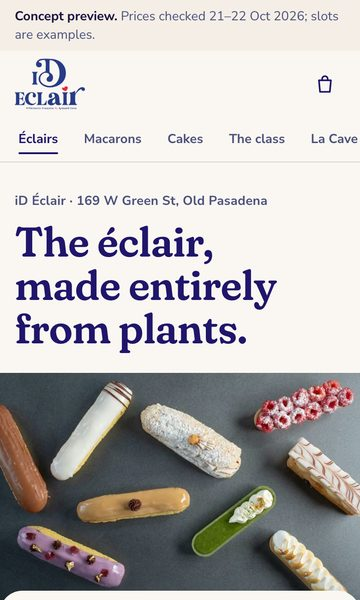
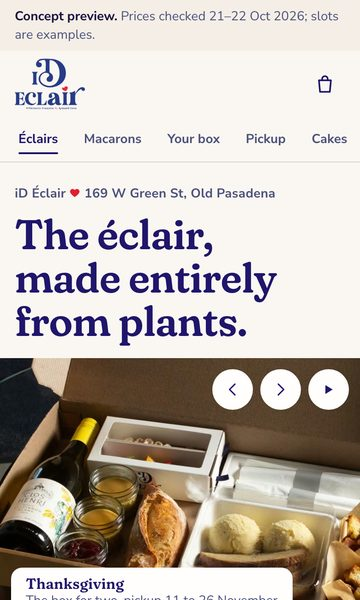
demo eng-0002: Lumiere hero becomes the seasonal stage carousel (crossfade, progress line, pause, swipe, reduced-motion static)

diff --git a/demo/eng-0002/options/12-lumiere/index.html b/demo/eng-0002/options/12-lumiere/index.html
@@ -17,8 +17,28 @@
 <link rel="icon" href="../../img/favicon.svg" type="image/svg+xml">
 <link rel="preload" as="font" type="font/woff2" crossorigin href="../../assets/fonts/fraunces-roman-latin.woff2">
 <link rel="preload" as="font" type="font/woff2" crossorigin href="../../assets/fonts/nunito-sans-roman-latin.woff2">
-<link rel="preload" as="image" type="image/avif" media="(max-width:899px)" imagesrcset="../../img/shop/eclairs-slate-480.avif 480w, ../../img/shop/eclairs-slate-800.avif 800w, ../../img/shop/eclairs-slate-1200.avif 1200w" imagesizes="100vw" fetchpriority="high">
-<link rel="preload" as="image" type="image/avif" media="(min-width:900px)" imagesrcset="../../img/shop/eclairs-slate-800.avif 800w, ../../img/shop/eclairs-slate-1200.avif 1200w, ../../img/shop/eclairs-slate-1600.avif 1600w" imagesizes="75vw" fetchpriority="high">
+<!-- season:start -->
+<script>/* Season, chosen before first paint. Loaded synchronously in <head> so the look is set before first paint (about 1 KB,
+   no fetch). ?season=<id> previews a look; otherwise the window that holds today's Pasadena date, shortest window
+   first; otherwise maison. The window table between the markers is written from assets/seasons.json by
+   tools/regen_static.py (run it or --check before every publish). In the Shopify build the same table is a
+   metaobject read in Liquid and one theme setting (Season: Auto or a named look). */
+(function () {
+  var T = /*SEASONS:START*/{"ids":["maison","toussaint","thanksgiving","noel","valentine","paques"],"windows":[["toussaint","2026-10-17","2026-11-02"],["thanksgiving","2026-11-03","2026-11-26"],["noel","2026-11-27","2026-12-26"],["valentine","2027-02-01","2027-02-14"],["paques","2027-03-14","2027-03-28"],["toussaint","2027-10-16","2027-11-02"],["thanksgiving","2027-11-02","2027-11-25"],["noel","2027-11-26","2027-12-26"],["valentine","2028-02-01","2028-02-14"],["paques","2028-04-02","2028-04-16"]]}/*SEASONS:END*/, ids = T.ids || ['maison'], W = T.windows || [];
+  var q = /[?&]season=([a-z-]+)/.exec(location.search), want = q && q[1], pick = 'maison', preview = false;
+  if (want && ids.indexOf(want) >= 0) { pick = want; preview = true; }
+  else {
+    var o = {}, today;
+    try { new Intl.DateTimeFormat('en-CA', { timeZone: 'America/Los_Angeles', year: 'numeric', month: '2-digit', day: '2-digit' }).formatToParts(new Date()).forEach(function (p) { o[p.type] = p.value; }); today = o.year + '-' + o.month + '-' + o.day; } catch (e) { today = new Date().toISOString().slice(0, 10); }
+    var best = null, len = Infinity;
+    for (var i = 0; i < W.length; i++) { var w = W[i]; if (w[1] <= today && today <= w[2]) { var d = Date.parse(w[2]) - Date.parse(w[1]); if (d < len) { len = d; best = w[0]; } } }
+    if (best) pick = best;
+  }
+  document.documentElement.setAttribute('data-season', pick);
+  window.IDE_SEASON = { id: pick, preview: preview };
+})();</script>
+<!-- season:end -->
+<script>(function(){var m={"toussaint": "../../img/shop/truffle-box-sq-480.avif 480w, ../../img/shop/truffle-box-sq-800.avif 800w", "thanksgiving": "../../img/shop/tg-box-sq-480.avif 480w, ../../img/shop/tg-box-sq-800.avif 800w", "noel": "../../img/shop/cookies-noel-sq-480.avif 480w, ../../img/shop/cookies-noel-sq-800.avif 800w", "valentine": "../../img/shop/jar-framboise-spoon-sq-480.avif 480w, ../../img/shop/jar-framboise-spoon-sq-800.avif 800w", "paques": "../../img/shop/truffles-white-box-sq-480.avif 480w, ../../img/shop/truffles-white-box-sq-800.avif 800w", "maison": "../../img/shop/eclairs-slate-sq-480.avif 480w, ../../img/shop/eclairs-slate-sq-800.avif 800w"},s=document.documentElement.getAttribute('data-season'),v=m[s]||m.maison;var l=document.createElement('link');l.rel='preload';l.as='image';l.type='image/avif';l.setAttribute('imagesrcset',v);l.setAttribute('imagesizes','(min-width:900px) min(600px, calc(100svh - 380px)), 100vw');l.setAttribute('fetchpriority','high');document.head.appendChild(l);})();</script>
 <link rel="stylesheet" href="../../assets/fonts.css">
 <style>
 /* Lumière, critical layer: tokens, base, header, chapter bar, the first chapter and the dock's hidden state.
@@ -75,16 +95,24 @@ h1,.ch-t{font-family:var(--font-display);font-weight:600;font-size:var(--t-45);l
 .ch-head{padding:var(--sp-8) var(--gutter) var(--sp-6)}
 .ch-fig{position:sticky;top:var(--sub-h);z-index:0;overflow:hidden;margin:0}
 .ch-fig img{width:100%;aspect-ratio:1/1;object-fit:cover}
-.hero .ch-fig img{aspect-ratio:3/2}
 .ch-copy{position:relative;z-index:1;background:var(--ch-bg,var(--ivory));border-radius:var(--radius-md) var(--radius-md) 0 0;margin-top:calc(var(--sp-6) * -1);padding:var(--sp-8) var(--gutter) var(--sp-16);box-shadow:0 -12px 24px oklch(0.3 0.02 277.7 / .08)}
 .btn{display:inline-flex;align-items:center;justify-content:center;gap:var(--sp-2);min-height:52px;padding:0 var(--sp-8);border-radius:var(--radius-pill);border:0;background:var(--color-brand);color:var(--color-on-brand);font:700 var(--t-16)/1.2 var(--font-text);text-decoration:none;cursor:pointer;transition:transform var(--dur-fast) var(--ease-move),background-color var(--dur-fast) var(--ease-move)}
 .btn:active{transform:scale(.98)}
 .btn[disabled]{background:var(--ivory-2);color:var(--color-muted);cursor:not-allowed}
 [hidden]{display:none !important}
 .btn svg{width:16px;height:16px;flex:none;stroke:currentColor;stroke-width:2.4;fill:none;stroke-linecap:round}
-.hero .ch-copy{display:flex;flex-direction:column;gap:var(--sp-6)}
-.hero .ch-copy > *{margin:0}
-.hero .cta{order:-1}
+.hero-in{display:grid;gap:var(--sp-4);padding:var(--sp-6) 0 var(--sp-6)}
+.hero-head{padding:0 var(--gutter)}
+.kick-heart{width:12px;height:12px;fill:var(--color-accent);vertical-align:-1px;margin:0 var(--sp-1)}
+.stage{position:relative}
+.stg-slides{position:relative;aspect-ratio:4/3;overflow:hidden;background:var(--stg-g,var(--ivory-2));transition:background-color var(--dur-base) var(--ease-move)}
+.stg-slide{position:absolute;inset:0;opacity:0;visibility:hidden;transition:opacity var(--dur-base) var(--ease-move),visibility 0s linear var(--dur-base)}
+.stg-slide.is-on{opacity:1;visibility:visible;transition:opacity var(--dur-base) var(--ease-move),visibility 0s}
+.stg-slide.is-season{display:none}
+.stage:not(.stg-live) .stg-slide:not(.is-on){display:none}
+.stg-slide picture,.stg-slide img,.stg-slide video{position:absolute;inset:0;width:100%;height:100%;object-fit:cover}
+.hero-cta{padding:0 var(--gutter)}
+.hero-lead{padding:0 var(--gutter)}
 .btn-wide{width:100%;max-width:400px}
 .dock{position:fixed;left:var(--sp-3);right:var(--sp-3);bottom:calc(var(--sp-3) + env(safe-area-inset-bottom));z-index:40;transform:translateY(calc(100% + 32px));transition:transform var(--dur-base) var(--ease-exit)}
 .drawer{position:fixed;inset:0;z-index:60;visibility:hidden;pointer-events:none}
@@ -102,23 +130,46 @@ h1,.ch-t{font-family:var(--font-display);font-weight:600;font-size:var(--t-45);l
   h1,.ch-t{font-size:var(--t-92);line-height:1}
   .ch{display:grid;grid-template-columns:minmax(0,1fr) minmax(0,1fr);grid-template-rows:auto 1fr;column-gap:var(--sp-16);max-width:1360px;margin-inline:auto;padding:var(--sp-24) var(--gutter)}
   .ch-fig{grid-column:1;grid-row:1 / span 2;top:calc(var(--sub-h) + var(--sp-8));align-self:start;height:calc(100svh - var(--sub-h) - var(--sp-16));min-height:480px;max-height:880px;border-radius:var(--radius-md)}
-  .ch-fig picture,.ch-fig img,.hero .ch-fig img{width:100%;height:100%;aspect-ratio:auto}
+  .ch-fig picture,.ch-fig img{width:100%;height:100%;aspect-ratio:auto}
   .ch-head{grid-column:2;padding:12svh 0 var(--sp-6)}
   .ch-copy{grid-column:2;margin:0;padding:0 0 12svh;background:none;box-shadow:none;border-radius:0}
   .flip .ch-fig{grid-column:2}
   .flip .ch-head,.flip .ch-copy{grid-column:1}
-  .hero.ch{padding-top:var(--sp-8)}
-  .hero .ch-head{padding-top:2svh}
-  .hero .cta{order:0}
-  .hero .ch-copy{gap:var(--sp-8)}
+  .hero-in{max-width:1360px;margin-inline:auto;padding:var(--sp-8) var(--gutter) var(--sp-12);grid-template-columns:minmax(0,1fr) auto;grid-template-areas:"head stage" "lead cta";column-gap:var(--sp-16);row-gap:var(--sp-4);align-items:center}
+  .hero-head{grid-area:head;padding:0}
+  .stage{grid-area:stage;width:min(600px,calc(100svh - 380px));min-width:400px}
+  .stg-slides{aspect-ratio:1/1;border-radius:var(--radius-md)}
+  .hero-cta{grid-area:cta;padding:0}
+  .hero-lead{grid-area:lead;padding:0;align-self:start}
   .dock{display:none}
 }
-@media (min-width:900px) and (max-height:820px){.hero h1{font-size:var(--t-60)}.hero .ch-head{padding-top:0}}
+@media (min-width:900px) and (max-height:820px){.hero h1{font-size:var(--t-60)}}
+html[data-season="toussaint"] .stg-slide.is-season[data-for="toussaint"]{display:block}
+html[data-season="toussaint"] .stage .stg-dot.is-season-dot{display:block}
+html[data-season="toussaint"] .stage:not(.stg-run) .stg-slide.is-season[data-for="toussaint"]{opacity:1;visibility:visible;z-index:1}
+html[data-season="toussaint"] .stage:not(.stg-run) .stg-slide.is-on:not(.is-season){display:none}
+html[data-season="thanksgiving"] .stg-slide.is-season[data-for="thanksgiving"]{display:block}
+html[data-season="thanksgiving"] .stage .stg-dot.is-season-dot{display:block}
+html[data-season="thanksgiving"] .stage:not(.stg-run) .stg-slide.is-season[data-for="thanksgiving"]{opacity:1;visibility:visible;z-index:1}
+html[data-season="thanksgiving"] .stage:not(.stg-run) .stg-slide.is-on:not(.is-season){display:none}
+html[data-season="noel"] .stg-slide.is-season[data-for="noel"]{display:block}
+html[data-season="noel"] .stage .stg-dot.is-season-dot{display:block}
+html[data-season="noel"] .stage:not(.stg-run) .stg-slide.is-season[data-for="noel"]{opacity:1;visibility:visible;z-index:1}
+html[data-season="noel"] .stage:not(.stg-run) .stg-slide.is-on:not(.is-season){display:none}
+html[data-season="valentine"] .stg-slide.is-season[data-for="valentine"]{display:block}
+html[data-season="valentine"] .stage .stg-dot.is-season-dot{display:block}
+html[data-season="valentine"] .stage:not(.stg-run) .stg-slide.is-season[data-for="valentine"]{opacity:1;visibility:visible;z-index:1}
+html[data-season="valentine"] .stage:not(.stg-run) .stg-slide.is-on:not(.is-season){display:none}
+html[data-season="paques"] .stg-slide.is-season[data-for="paques"]{display:block}
+html[data-season="paques"] .stage .stg-dot.is-season-dot{display:block}
+html[data-season="paques"] .stage:not(.stg-run) .stg-slide.is-season[data-for="paques"]{opacity:1;visibility:visible;z-index:1}
+html[data-season="paques"] .stage:not(.stg-run) .stg-slide.is-on:not(.is-season){display:none}
 </style>
 <link rel="stylesheet" href="lumiere.css" media="print" onload="this.media='all'">
 <noscript><link rel="stylesheet" href="lumiere.css"></noscript>
 <script src="lumiere.js" defer></script>
 <script src="../../assets/app.js" defer></script>
+<script src="../../assets/stage.js" defer></script>
 <script type="application/ld+json">
 {"@context":"https://schema.org","@graph":[
 {"@type":"Bakery","@id":"https://www.id-eclair.com/#bakery","name":"iD Éclair","description":"A 100% plant-based French pâtisserie and salon de thé on West Green Street in Old Pasadena, led by chef-owner Romuald Guiot.","url":"https://www.id-eclair.com/","image":"https://cdn.shopify.com/s/files/1/0617/7937/8364/files/GG_2085.jpg?v=1740687892","telephone":"+1-626-365-1161","address":{"@type":"PostalAddress","streetAddress":"169 W Green St","addressLocality":"Pasadena","addressRegion":"CA","postalCode":"91105","addressCountry":"US"},"servesCuisine":["French","Vegan"],"hasMenu":{"@id":"https://www.id-eclair.com/#menu"},"founder":{"@type":"Person","name":"Romuald Guiot","jobTitle":"Chef-owner"},"sameAs":["https://www.instagram.com/ideclairlosangeles/","https://www.tiktok.com/@ideclairlosangeles"]},
@@ -177,24 +228,42 @@ h1,.ch-t{font-family:var(--font-display);font-weight:600;font-size:var(--t-45);l
 <div id="menu">
 
 <section class="chapter hero" id="eclairs" aria-labelledby="h1">
-  <div class="ch">
-    <div class="ch-head">
-      <p class="kick">iD Éclair · 169 W Green St, Old Pasadena</p>
+  <div class="hero-in">
+    <div class="hero-head">
+      <p class="kick">iD Éclair<svg class="kick-heart" viewBox="0 0 24 24" aria-hidden="true"><path d="M12 21s-7-4.6-9.3-9A5.5 5.5 0 0 1 12 6a5.5 5.5 0 0 1 9.3 6c-2.3 4.4-9.3 9-9.3 9z"/></svg>169 W Green St, Old Pasadena</p>
       <h1 id="h1">The éclair, made entirely from plants.</h1>
     </div>
-    <figure class="ch-fig" data-grid-break>
-      <picture>
-<source type="image/avif" srcset="../../img/shop/eclairs-slate-480.avif 480w, ../../img/shop/eclairs-slate-800.avif 800w, ../../img/shop/eclairs-slate-1200.avif 1200w, ../../img/shop/eclairs-slate-1600.avif 1600w" sizes="(min-width:900px) 75vw, 100vw">
-<source type="image/webp" srcset="../../img/shop/eclairs-slate-480.webp 480w, ../../img/shop/eclairs-slate-800.webp 800w, ../../img/shop/eclairs-slate-1200.webp 1200w, ../../img/shop/eclairs-slate-1600.webp 1600w" sizes="(min-width:900px) 75vw, 100vw">
-<img src="../../img/shop/eclairs-slate-1200.jpg" width="2400" height="1600" alt="A spread of éclairs with different glazes and decorations on a dark slate" fetchpriority="high" decoding="async">
-</picture>
-    </figure>
-    <div class="ch-copy">
-      <p class="lead">Chocolate glaze and gold leaf, $6.50. Made by a chef trained in a three-Michelin-star kitchen and a finalist on Food Network’s Spring Baking Championship.</p>
-      <div class="cta" data-card>
-        <button class="btn btn-wide" type="button" data-add data-handle="chocolate-eclair" data-title="Chocolate éclair" data-price="6.5" data-glyph="é" aria-label="Add a chocolate éclair, $6.50">Add a chocolate éclair · $6.50</button>
+<div class="stage has-season" data-stage data-interval="5000" data-grid-break>
+  <div class="stg-slides" aria-roledescription="carousel" aria-label="From the shop’s own photographs">
+    <div data-for="toussaint" class="stg-slide is-season" role="group" aria-roledescription="slide" aria-label="1 of 1: Chocolate" data-ground="#020106"><picture><source type="image/avif" srcset="../../img/shop/truffle-box-sq-480.avif 480w, ../../img/shop/truffle-box-sq-800.avif 800w" sizes="(min-width:900px) min(600px, calc(100svh - 380px)), 100vw"><source type="image/webp" srcset="../../img/shop/truffle-box-sq-480.webp 480w, ../../img/shop/truffle-box-sq-800.webp 800w" sizes="(min-width:900px) min(600px, calc(100svh - 380px)), 100vw"><img src="../../img/shop/truffle-box-sq-800.jpg" width="800" height="800" alt="Dark truffles in a long white iD Éclair box on black" loading="lazy" decoding="async"></picture><p class="stg-cap"><b>Chocolate</b><span>Truffle boxes from $15.00</span></p></div>
+    <div data-for="thanksgiving" class="stg-slide is-season" role="group" aria-roledescription="slide" aria-label="1 of 1: Thanksgiving" data-ground="#3d261f"><picture><source type="image/avif" srcset="../../img/shop/tg-box-sq-480.avif 480w, ../../img/shop/tg-box-sq-800.avif 800w" sizes="(min-width:900px) min(600px, calc(100svh - 380px)), 100vw"><source type="image/webp" srcset="../../img/shop/tg-box-sq-480.webp 480w, ../../img/shop/tg-box-sq-800.webp 800w" sizes="(min-width:900px) min(600px, calc(100svh - 380px)), 100vw"><img src="../../img/shop/tg-box-sq-800.jpg" width="800" height="800" alt="The Thanksgiving box for two, open, with wine, sides and baguette" loading="lazy" decoding="async"></picture><p class="stg-cap"><b>Thanksgiving</b><span>The box for two, pickup 11 to 26 November</span></p></div>
+    <div data-for="noel" class="stg-slide is-season" role="group" aria-roledescription="slide" aria-label="1 of 1: Custom Cookies" data-ground="#cbbeb1"><picture><source type="image/avif" srcset="../../img/shop/cookies-noel-sq-480.avif 480w, ../../img/shop/cookies-noel-sq-800.avif 800w" sizes="(min-width:900px) min(600px, calc(100svh - 380px)), 100vw"><source type="image/webp" srcset="../../img/shop/cookies-noel-sq-480.webp 480w, ../../img/shop/cookies-noel-sq-800.webp 800w" sizes="(min-width:900px) min(600px, calc(100svh - 380px)), 100vw"><img src="../../img/shop/cookies-noel-sq-800.jpg" width="800" height="800" alt="Printed holiday cookies with snowflakes and Santa" loading="lazy" decoding="async"></picture><p class="stg-cap"><b>Custom Cookies</b><span>Order a batch</span></p></div>
+    <div data-for="valentine" data-cta="framboise-cherie" class="stg-slide is-season" role="group" aria-roledescription="slide" aria-label="1 of 1: Framboise chérie" data-ground="#dee6e9"><picture><source type="image/avif" srcset="../../img/shop/jar-framboise-spoon-sq-480.avif 480w, ../../img/shop/jar-framboise-spoon-sq-800.avif 800w" sizes="(min-width:900px) min(600px, calc(100svh - 380px)), 100vw"><source type="image/webp" srcset="../../img/shop/jar-framboise-spoon-sq-480.webp 480w, ../../img/shop/jar-framboise-spoon-sq-800.webp 800w" sizes="(min-width:900px) min(600px, calc(100svh - 380px)), 100vw"><img src="../../img/shop/jar-framboise-spoon-sq-800.jpg" width="800" height="800" alt="Framboise chérie in its jar with a biscuit spoon" loading="lazy" decoding="async"></picture><p class="stg-cap"><b lang="fr">Framboise chérie</b><span>Raspberry mousse, raspberry jam, almond streusel</span></p></div>
+    <div data-for="paques" data-cta="white-chocolate-truffles" class="stg-slide is-season" role="group" aria-roledescription="slide" aria-label="1 of 1: Chocolate" data-ground="#dfe9ec"><picture><source type="image/avif" srcset="../../img/shop/truffles-white-box-sq-480.avif 480w, ../../img/shop/truffles-white-box-sq-800.avif 800w" sizes="(min-width:900px) min(600px, calc(100svh - 380px)), 100vw"><source type="image/webp" srcset="../../img/shop/truffles-white-box-sq-480.webp 480w, ../../img/shop/truffles-white-box-sq-800.webp 800w" sizes="(min-width:900px) min(600px, calc(100svh - 380px)), 100vw"><img src="../../img/shop/truffles-white-box-sq-800.jpg" width="800" height="800" alt="White chocolate truffles in an open iD Éclair box" loading="lazy" decoding="async"></picture><p class="stg-cap"><b>Chocolate</b><span>White chocolate truffles, 200 g, $16.00</span></p></div>
+    <div class="stg-slide is-on" role="group" aria-roledescription="slide" aria-label="1 of 1: Éclairs" data-ground="#4b545a"><picture><source type="image/avif" srcset="../../img/shop/eclairs-slate-sq-480.avif 480w, ../../img/shop/eclairs-slate-sq-800.avif 800w" sizes="(min-width:900px) min(600px, calc(100svh - 380px)), 100vw"><source type="image/webp" srcset="../../img/shop/eclairs-slate-sq-480.webp 480w, ../../img/shop/eclairs-slate-sq-800.webp 800w" sizes="(min-width:900px) min(600px, calc(100svh - 380px)), 100vw"><img src="../../img/shop/eclairs-slate-sq-800.jpg" width="800" height="800" alt="A spread of éclairs with different glazes and decorations on a dark slate" loading="lazy" decoding="async"></picture><p class="stg-cap"><b>Éclairs</b><span>The house signature, every morning</span></p></div>
+    <div data-cta="4-desserts-in-jar" class="stg-slide" role="group" aria-roledescription="slide" aria-label="1 of 1: Dessert in jar" data-ground="#ebf9d6"><picture><source type="image/avif" srcset="../../img/shop/ab-jars-sq-480.avif 480w, ../../img/shop/ab-jars-sq-800.avif 800w" sizes="(min-width:900px) min(600px, calc(100svh - 380px)), 100vw"><source type="image/webp" srcset="../../img/shop/ab-jars-sq-480.webp 480w, ../../img/shop/ab-jars-sq-800.webp 800w" sizes="(min-width:900px) min(600px, calc(100svh - 380px)), 100vw"><img src="../../img/shop/ab-jars-sq-800.jpg" width="800" height="800" alt="Three dessert jars with biscuit spoons, Framboise chérie, Citron ma passion and Chocolat mon amour, on a mint ground" loading="lazy" decoding="async"></picture><p class="stg-cap"><b>Dessert in jar</b><span>Framboise chérie, Citron ma passion, Chocolat mon amour</span></p></div>
+    <div data-cta="golden-ticket" class="stg-slide is-video" role="group" aria-roledescription="slide" aria-label="1 of 1: Golden Ticket" data-ground="#d9c48a"><picture><source type="image/avif" srcset="../../img/shop/ticket-tall-poster.avif"><source type="image/webp" srcset="../../img/shop/ticket-tall-poster.webp"><img src="../../img/shop/ticket-tall-poster.jpg" width="540" height="960" alt="The Golden Ticket masterclass: a class piping macarons at the bench" loading="lazy" decoding="async"></picture><video muted playsinline loop preload="none" aria-hidden="true" tabindex="-1" data-tall="../../img/shop/ticket-tall.mp4" data-wide="../../img/shop/ticket-wide.mp4"></video><p class="stg-cap"><b>Golden Ticket</b><span>Learn to craft pastries like a pro!</span></p></div>
+    <div data-cta="cookie-spoon" class="stg-slide" role="group" aria-roledescription="slide" aria-label="1 of 1: Vegan Cookies" data-ground="#ffd299"><picture><source type="image/avif" srcset="../../img/shop/ab-spoons-sq-480.avif 480w, ../../img/shop/ab-spoons-sq-800.avif 800w" sizes="(min-width:900px) min(600px, calc(100svh - 380px)), 100vw"><source type="image/webp" srcset="../../img/shop/ab-spoons-sq-480.webp 480w, ../../img/shop/ab-spoons-sq-800.webp 800w" sizes="(min-width:900px) min(600px, calc(100svh - 380px)), 100vw"><img src="../../img/shop/ab-spoons-sq-800.jpg" width="800" height="800" alt="Cookie spoons and a blue glazed plate on an apricot ground" loading="lazy" decoding="async"></picture><p class="stg-cap"><b>Vegan Cookies</b><span>Delectable, Melt-in-Your-Mouth Treats</span></p></div>
+    <div data-cta="gift-basket-small" class="stg-slide" role="group" aria-roledescription="slide" aria-label="1 of 1: Gift basket" data-ground="#fda984"><picture><source type="image/avif" srcset="../../img/shop/ab-baskets-sq-480.avif 480w, ../../img/shop/ab-baskets-sq-800.avif 800w" sizes="(min-width:900px) min(600px, calc(100svh - 380px)), 100vw"><source type="image/webp" srcset="../../img/shop/ab-baskets-sq-480.webp 480w, ../../img/shop/ab-baskets-sq-800.webp 800w" sizes="(min-width:900px) min(600px, calc(100svh - 380px)), 100vw"><img src="../../img/shop/ab-baskets-sq-800.jpg" width="800" height="800" alt="Two gift baskets in black boxes printed Faith, Love, Happiness, filled with meringues and biscuits, on a peach ground" loading="lazy" decoding="async"></picture><p class="stg-cap"><b>Gift basket</b><span>Luxury Gift Baskets, Thoughtfully Curated</span></p></div>
+    <div data-cta="caneles" class="stg-slide" role="group" aria-roledescription="slide" aria-label="1 of 1: Cannelés" data-ground="#eddbbd"><picture><source type="image/avif" srcset="../../img/shop/caneles-tray-sq-480.avif 480w, ../../img/shop/caneles-tray-sq-800.avif 800w" sizes="(min-width:900px) min(600px, calc(100svh - 380px)), 100vw"><source type="image/webp" srcset="../../img/shop/caneles-tray-sq-480.webp 480w, ../../img/shop/caneles-tray-sq-800.webp 800w" sizes="(min-width:900px) min(600px, calc(100svh - 380px)), 100vw"><img src="../../img/shop/caneles-tray-sq-800.jpg" width="800" height="800" alt="Rows of dark, caramelised cannelés in a white iD Éclair box with the shop’s card" loading="lazy" decoding="async"></picture><p class="stg-cap"><b>Cannelés</b><span>Caramelised crust, soft centre, by three</span></p></div>
+  </div>
+  <div class="stg-ctl"><button class="stg-arrow" type="button" data-stg-prev aria-label="Previous slide"><svg class="ico" viewBox="0 0 24 24" aria-hidden="true"><path d="M15 5l-7 7 7 7"/></svg></button><div class="stg-dots" role="group" aria-label="Choose a slide"><button class="stg-dot is-season-dot" type="button" aria-label="Show slide 1: this season" aria-current="false"><i></i></button><button class="stg-dot" type="button" aria-label="Show slide 2: Éclairs" aria-current="true"><i></i></button><button class="stg-dot" type="button" aria-label="Show slide 3: Dessert in jar" aria-current="false"><i></i></button><button class="stg-dot" type="button" aria-label="Show slide 4: Golden Ticket" aria-current="false"><i></i></button><button class="stg-dot" type="button" aria-label="Show slide 5: Vegan Cookies" aria-current="false"><i></i></button><button class="stg-dot" type="button" aria-label="Show slide 6: Gift basket" aria-current="false"><i></i></button><button class="stg-dot" type="button" aria-label="Show slide 7: Cannelés" aria-current="false"><i></i></button></div><button class="stg-arrow" type="button" data-stg-next aria-label="Next slide"><svg class="ico" viewBox="0 0 24 24" aria-hidden="true"><path d="M9 5l7 7-7 7"/></svg></button><button class="stg-pause" type="button" aria-pressed="false"><svg class="pa" viewBox="0 0 16 16" aria-hidden="true"><path d="M4 3h3v10H4zM9 3h3v10H9z"/></svg><svg class="pl" viewBox="0 0 16 16" aria-hidden="true"><path d="M4 2.5v11l9-5.5z"/></svg></button></div>
+</div>
+<script>(function(){if(document.documentElement.getAttribute('data-season')!=='maison')return;var i=document.querySelector('.stage .stg-slide.is-on img');if(i){i.loading='eager';i.setAttribute('fetchpriority','high');}})();</script>
+    <div class="cta hero-cta">
+        <div class="cta-one" data-cta-for="chocolate-eclair"><button class="btn btn-wide" type="button" data-add data-handle="chocolate-eclair" data-title="Chocolate éclair" data-price="6.5" data-glyph="é" aria-label="Add a chocolate éclair, $6.50">Add a chocolate éclair · $6.50</button></div>
+        <div class="cta-one" data-cta-for="framboise-cherie" hidden><button class="btn btn-wide" type="button" data-add data-handle="framboise-cherie" data-title="Framboise chérie" data-price="8" data-variant="41826118205628" data-image="img/framboise-cherie-800.jpg" aria-label="Add Framboise chérie, $8.00">Add Framboise chérie · $8.00</button></div>
+        <div class="cta-one" data-cta-for="white-chocolate-truffles" hidden><button class="btn btn-wide" type="button" data-add data-handle="white-chocolate-truffles" data-title="White chocolate truffles" data-price="16" data-variant="43134026907836" data-image="img/white-chocolate-truffles-800.jpg" aria-label="Add white chocolate truffles, $16.00">Add white chocolate truffles · $16.00</button></div>
+        <div class="cta-one" data-cta-for="4-desserts-in-jar" hidden><button class="btn btn-wide" type="button" data-add data-handle="4-desserts-in-jar" data-title="Four desserts in a jar" data-price="30" data-variant="41826161557692" data-image="img/4-desserts-in-jar-2-800.jpg" aria-label="Add the four jars, $30.00">Add the four jars · $30.00</button></div>
+        <div class="cta-one" data-cta-for="golden-ticket" hidden><button class="btn btn-wide" type="button" data-add data-handle="golden-ticket" data-title="Golden Ticket (dark chocolate 60%)" data-price="140" data-variant="45561722503356" data-image="img/golden-ticket-800.jpg" aria-label="Add the Golden Ticket, $140.00">Add the Golden Ticket · $140.00</button></div>
+        <div class="cta-one" data-cta-for="cookie-spoon" hidden><button class="btn btn-wide" type="button" data-add data-handle="cookie-spoon" data-title="Cookie spoons" data-price="5" data-variant="41829520539836" data-image="img/cookie-spoon-800.jpg" aria-label="Add cookie spoons, $5.00">Add cookie spoons · $5.00</button></div>
+        <div class="cta-one" data-cta-for="gift-basket-small" hidden><button class="btn btn-wide" type="button" data-add data-handle="gift-basket-small" data-title="Gift basket, small" data-price="45" data-variant="43094183837884" data-image="img/gift-basket-small-800.jpg" aria-label="Add the small gift basket, $45.00">Add the small gift basket · $45.00</button></div>
+        <div class="cta-one" data-cta-for="caneles" hidden><button class="btn btn-wide" type="button" data-add data-handle="caneles" data-title="Cannelés, by 3" data-price="9" data-variant="42881176993980" data-image="img/caneles-1-800.jpg" aria-label="Add cannelés, by 3, $9.00">Add cannelés, by 3 · $9.00</button></div>
         <p class="when"><svg class="ico" viewBox="0 0 24 24" aria-hidden="true"><circle cx="12" cy="12" r="9"/><path d="M12 7v5l3 2"/></svg><span data-next-slot>Next pickup today</span><small>example</small></p>
-      </div>
+    </div>
+    <p class="lead hero-lead">Chocolate glaze and gold leaf, $6.50. Made by a chef trained in a three-Michelin-star kitchen and a finalist on Food Network’s Spring Baking Championship.</p>
+  </div>
+  <div class="wrap hero-more">
       <p class="why">His favourite pastry, he told Eater LA in September 2024, for how well it travels and how many ways it can go.</p>
       <h2 class="list-t">Five in the case</h2>
       <ul class="rows" role="list">
@@ -206,7 +275,6 @@ h1,.ch-t{font-family:var(--font-display);font-weight:600;font-size:var(--t-45);l
       </ul>
       <p class="fine">Same day from the case. Counter items: today they’re paid at the counter or on the menu app, and the bag says so.</p>
       <button class="ask" type="button" data-ask-open data-ask="Is everything plant-based?" hidden><svg class="ico" viewBox="0 0 24 24" aria-hidden="true"><path d="M4 6.5A2.5 2.5 0 0 1 6.5 4h11A2.5 2.5 0 0 1 20 6.5v7a2.5 2.5 0 0 1-2.5 2.5H9l-4 4v-4H6.5A2.5 2.5 0 0 1 4 13.5z"/></svg>Ask the pastry counter</button>
-    </div>
   </div>
 </section>
 

diff --git a/demo/eng-0002/options/12-lumiere/lumiere.js b/demo/eng-0002/options/12-lumiere/lumiere.js
@@ -8,7 +8,9 @@
         and shows the chosen pickup ("Ready Sat Nov 7, 11:00 am");
      5. the flight to the bag: on a pointer Add, the item's photo (or the heart) travels to the bag in 300 ms;
      6. the gift note preview; 7. the transform-only nudge where animation-timeline is missing;
-     8. after the page has painted and gone idle, the pastry counter (counter-core.js, then counter.js).
+     8. after the page has painted and gone idle, the pastry counter (counter-core.js, then counter.js);
+     9. the stage (../../assets/stage.js runs it): arrows, a hold while a pointer, finger or focus rests on it or on
+        its button, the progress line, and the button under it following the slide.
    Reduced motion: no flight, no nudge, no smooth scroll. No dependencies. */
 (function () {
   'use strict';
@@ -153,4 +155,60 @@
   function counter() { load('counter-core.js', function () { load('counter.js'); }); }
   function idle() { if ('requestIdleCallback' in window) requestIdleCallback(counter, { timeout: 2000 }); else setTimeout(counter, 600); }
   if (document.readyState === 'complete') idle(); else addEventListener('load', idle, { once: true });
+
+  /* 9. the stage. stage.js rotates, swipes, pauses and reads arrow keys; this adds the visible arrows, the hold
+     (through the stage's own focus hold), the progress line restart and the button that follows the slide. */
+  var stage = $('[data-stage]');
+  if (stage) {
+    var box = $('.stg-slides', stage), ctas = $$('[data-cta-for]'), holds = 0, cta = $('.hero-cta'), lastOn = null;
+    function dots() { return $$('.stg-dot', stage).filter(function (d) { return d.offsetParent !== null; }); }
+    function cur() { var d = dots(); for (var k = 0; k < d.length; k++) if (d[k].getAttribute('aria-current') === 'true') return k; return 0; }
+    function step(n) { var d = dots(); if (d.length) d[(cur() + n + d.length) % d.length].click(); }
+    var prev = $('[data-stg-prev]', stage), next = $('[data-stg-next]', stage);
+    if (prev) prev.addEventListener('click', function () { step(-1); });
+    if (next) next.addEventListener('click', function () { step(1); });
+    function hold(on) {
+      holds = Math.max(0, holds + (on ? 1 : -1));
+      stage.classList.toggle('is-held', holds > 0);
+      box.dispatchEvent(new FocusEvent(holds > 0 ? 'focusin' : 'focusout', { bubbles: true }));
+      if (!holds && !reduce) { var d = dots()[cur()]; if (d) d.click(); }   /* a fresh full interval after a hold */
+    }
+    function release() { setTimeout(function () { hold(false); }, 1200); }
+    [stage, cta].forEach(function (el) {
+      if (!el) return;
+      el.addEventListener('pointerenter', function (e) { if (e.pointerType === 'mouse') hold(true); });
+      el.addEventListener('pointerleave', function (e) { if (e.pointerType === 'mouse') hold(false); });
+      el.addEventListener('pointerdown', function (e) {
+        if (e.pointerType === 'mouse') return;
+        hold(true);
+        window.addEventListener('pointerup', release, { once: true });
+      }, { passive: true });
+    });
+    if (cta) { cta.addEventListener('focusin', function () { hold(true); }); cta.addEventListener('focusout', function () { hold(false); }); }
+    function follow() {
+      var on = $('.stg-slide.is-on', stage), h = (on && on.getAttribute('data-cta')) || 'chocolate-eclair';
+      if (!$('[data-cta-for="' + h + '"]')) h = 'chocolate-eclair';
+      if (!(document.activeElement && cta && cta.contains(document.activeElement))) {   /* never swap the button under a keyboard user */
+        ctas.forEach(function (c) { c.hidden = c.getAttribute('data-cta-for') !== h; });
+      }
+      var shown = $$('.stg-slide', stage).filter(function (s) { return !s.classList.contains('is-season') || s.getAttribute('data-for') === document.documentElement.getAttribute('data-season'); });
+      var k = shown.indexOf(on);
+      shown.forEach(function (s) { if (s.classList.contains('is-next') && s !== shown[(k + 1) % shown.length]) s.classList.remove('is-next'); });
+      if (on && lastOn && lastOn !== on) { var gone = lastOn; gone.classList.add('was-on'); setTimeout(function () { gone.classList.remove('was-on'); }, 320); }
+      lastOn = on;
+      if (k >= 0 && shown.length > 1) shown[(k + 1) % shown.length].classList.add('is-next');
+      $$('.stg-dot', stage).forEach(function (d) { d.classList.remove('run'); });
+      var d = dots()[cur()]; if (d) { void d.offsetWidth; d.classList.add('run'); }
+    }
+    /* react to a slide change or stage.js marking the current dot; never to this code's own class changes */
+    var queueFollow = frame(follow);
+    new MutationObserver(function (ms) {
+      if (ms.some(function (m) {
+        if (m.attributeName === 'aria-current') return true;
+        var t = m.target;
+        return t.classList.contains('stg-slide') && ((m.oldValue || '').split(' ').indexOf('is-on') >= 0) !== t.classList.contains('is-on');
+      })) queueFollow();
+    }).observe(stage, { subtree: true, attributes: true, attributeOldValue: true, attributeFilter: ['class', 'aria-current'] });
+    follow();
+  }
 })();

diff --git a/demo/eng-0002/options/12-lumiere/lumiere.css b/demo/eng-0002/options/12-lumiere/lumiere.css
@@ -503,3 +503,43 @@ body.locked{overflow:hidden}
 .pass-code path{stroke:var(--color-brand)}
 @media (min-width:900px){.mb{grid-template-columns:minmax(0,5fr) minmax(0,6fr);column-gap:var(--sp-16)}.pass{width:min(100%,440px);padding:var(--sp-6) var(--sp-8)}.pass-v{font-size:var(--t-34)}}
 @media (max-width:899px){.sub-hello{display:none !important}}
+
+/* ---------- the stage (driven by ../../assets/stage.js) ---------- */
+.stage{--stg-every:5000ms}
+.stg-cap{position:absolute;left:var(--sp-3);bottom:var(--sp-3);z-index:2;display:flex;flex-direction:column;max-width:calc(100% - 2 * var(--sp-3));padding:var(--sp-2) var(--sp-4);border-radius:var(--radius-sm);background:var(--paper);box-shadow:var(--shadow-e2);color:var(--color-ink)}
+.stg-cap b{font-family:var(--font-display);font-weight:600;font-size:var(--t-16);color:var(--color-brand);line-height:1.2}
+.stg-cap span{font-size:var(--t-14);line-height:1.3;color:var(--color-muted)}
+.stg-slide video{opacity:0;transition:opacity var(--dur-base) var(--ease-move)}
+.stg-slide video.is-ready{opacity:1}
+/* arrows and pause sit on the photo's top corner; the progress line runs the full width under it */
+.stg-ctl{padding:0 var(--sp-2)}
+.stg-dots{display:flex;gap:var(--sp-1);min-width:0}
+.stg-dot{flex:1;min-width:0;height:44px;padding:0;border:0;background:none;display:grid;align-items:center;cursor:pointer}
+.stg-dot i{position:relative;display:block;height:3px;border-radius:2px;background:oklch(0.281 0.14 277.7 / .16);overflow:hidden}
+.stg-dot i::after{content:"";position:absolute;inset:0;background:var(--color-brand);transform-origin:0 50%;transform:scaleX(0)}
+.stg-dot[aria-current="true"] i::after{transform:scaleX(1)}
+.stage.stg-live .stg-dot.run[aria-current="true"] i::after{transform:scaleX(0);animation:lum-fill var(--stg-every) linear forwards}
+.stage.is-held .stg-dot i::after,.stage:has(.stg-pause[aria-pressed="true"]) .stg-dot i::after{animation-play-state:paused}
+@keyframes lum-fill{to{transform:scaleX(1)}}
+.stg-dot.is-season-dot{display:none}
+/* only the slide on show, the one leaving and the next one are drawn, so the rest stay unloaded until their turn */
+.stage.stg-live .stg-slide:not(.is-on):not(.is-next):not(.was-on){display:none}
+.stg-arrow,.stg-pause{position:absolute;top:var(--sp-3);z-index:3;width:44px;height:44px;display:grid;place-items:center;padding:0;border:0;border-radius:50%;background:var(--paper);box-shadow:var(--shadow-e2);color:var(--color-brand);cursor:pointer}
+.stg-pause{right:var(--sp-3)}
+[data-stg-next]{right:calc(var(--sp-3) + 52px)}
+[data-stg-prev]{right:calc(var(--sp-3) + 104px)}
+.stg-arrow .ico{width:20px;height:20px}
+.stg-pause svg{width:14px;height:14px;fill:currentColor}
+.stg-pause .pl,.stg-pause[aria-pressed="true"] .pa{display:none}
+.stg-pause[aria-pressed="true"] .pl{display:block}
+@media (hover:hover){.stg-arrow:hover,.stg-pause:hover{background:var(--ivory)}}
+.hero-more{display:grid;gap:var(--sp-4);padding-bottom:var(--sp-16)}
+.hero-more .rows{margin-top:0 !important}
+@media (min-width:900px){
+  .stg-ctl{padding:0}
+  .stg-cap{left:var(--sp-4);bottom:var(--sp-4)}
+  .hero-more{grid-template-columns:minmax(0,5fr) minmax(0,7fr);column-gap:var(--sp-16);align-items:start;padding-bottom:var(--sp-24)}
+  .hero-more .why{grid-column:1;grid-row:1 / span 4}
+  .hero-more > :not(.why){grid-column:2}
+}
+@media (prefers-reduced-motion:reduce){.stage.stg-live .stg-dot.run[aria-current="true"] i::after,.stage .stg-dot[aria-current="true"] i::after{transform:scaleX(1)}}
